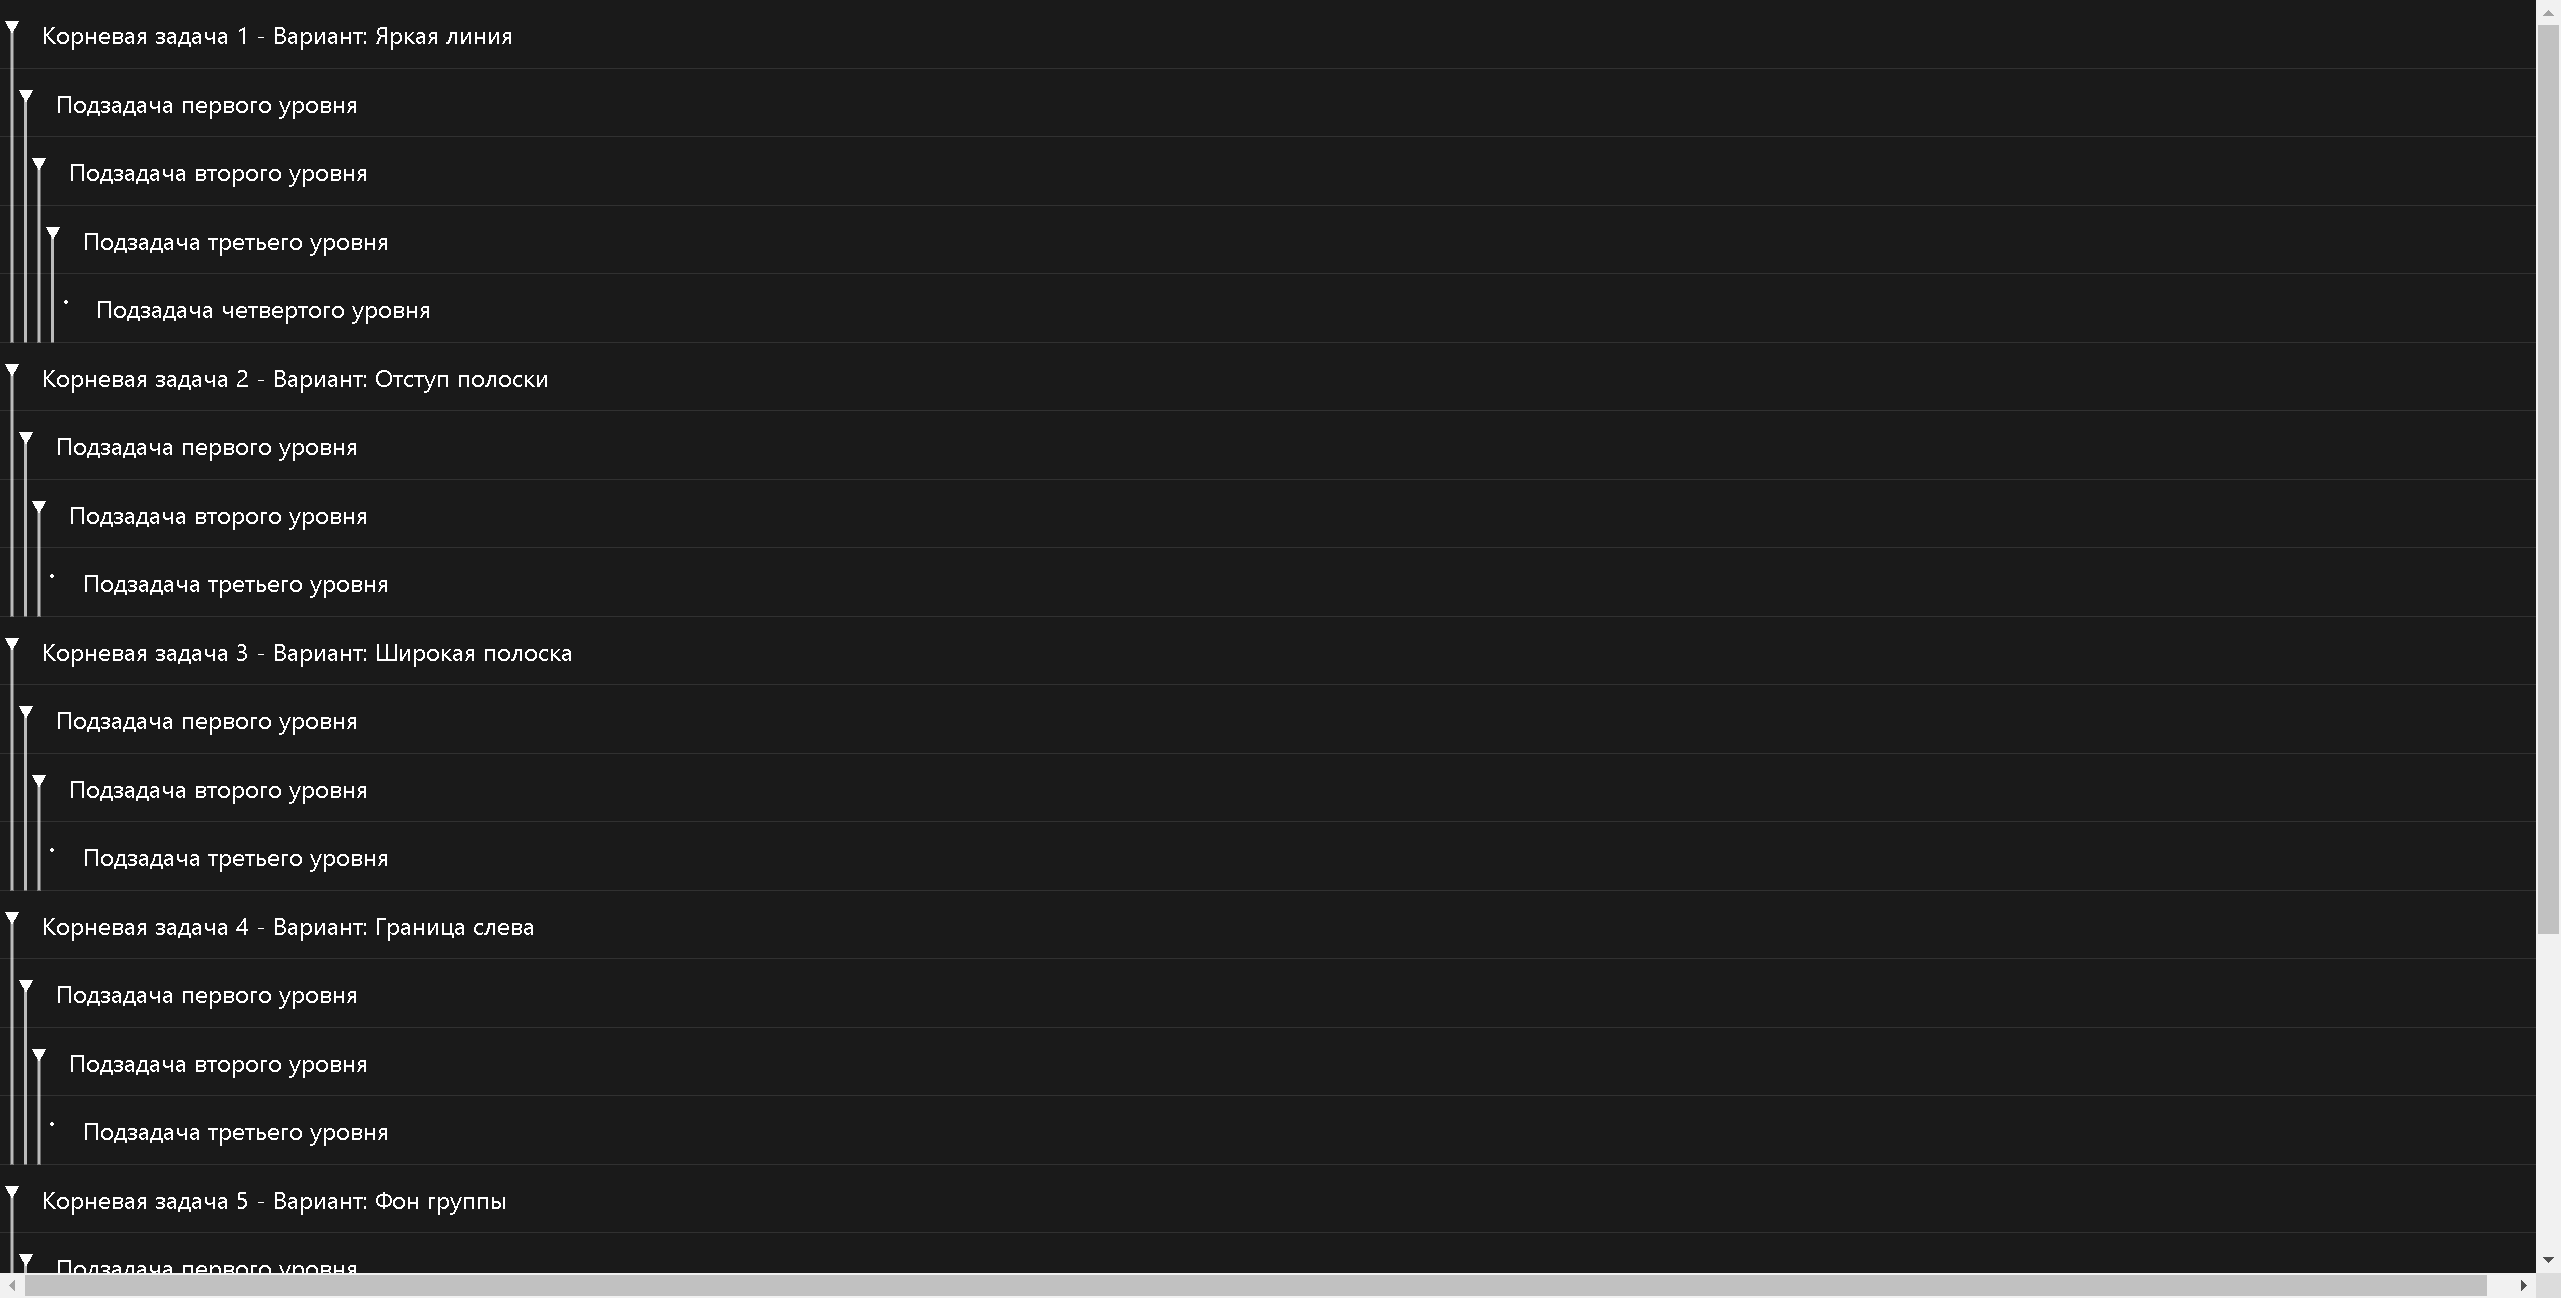
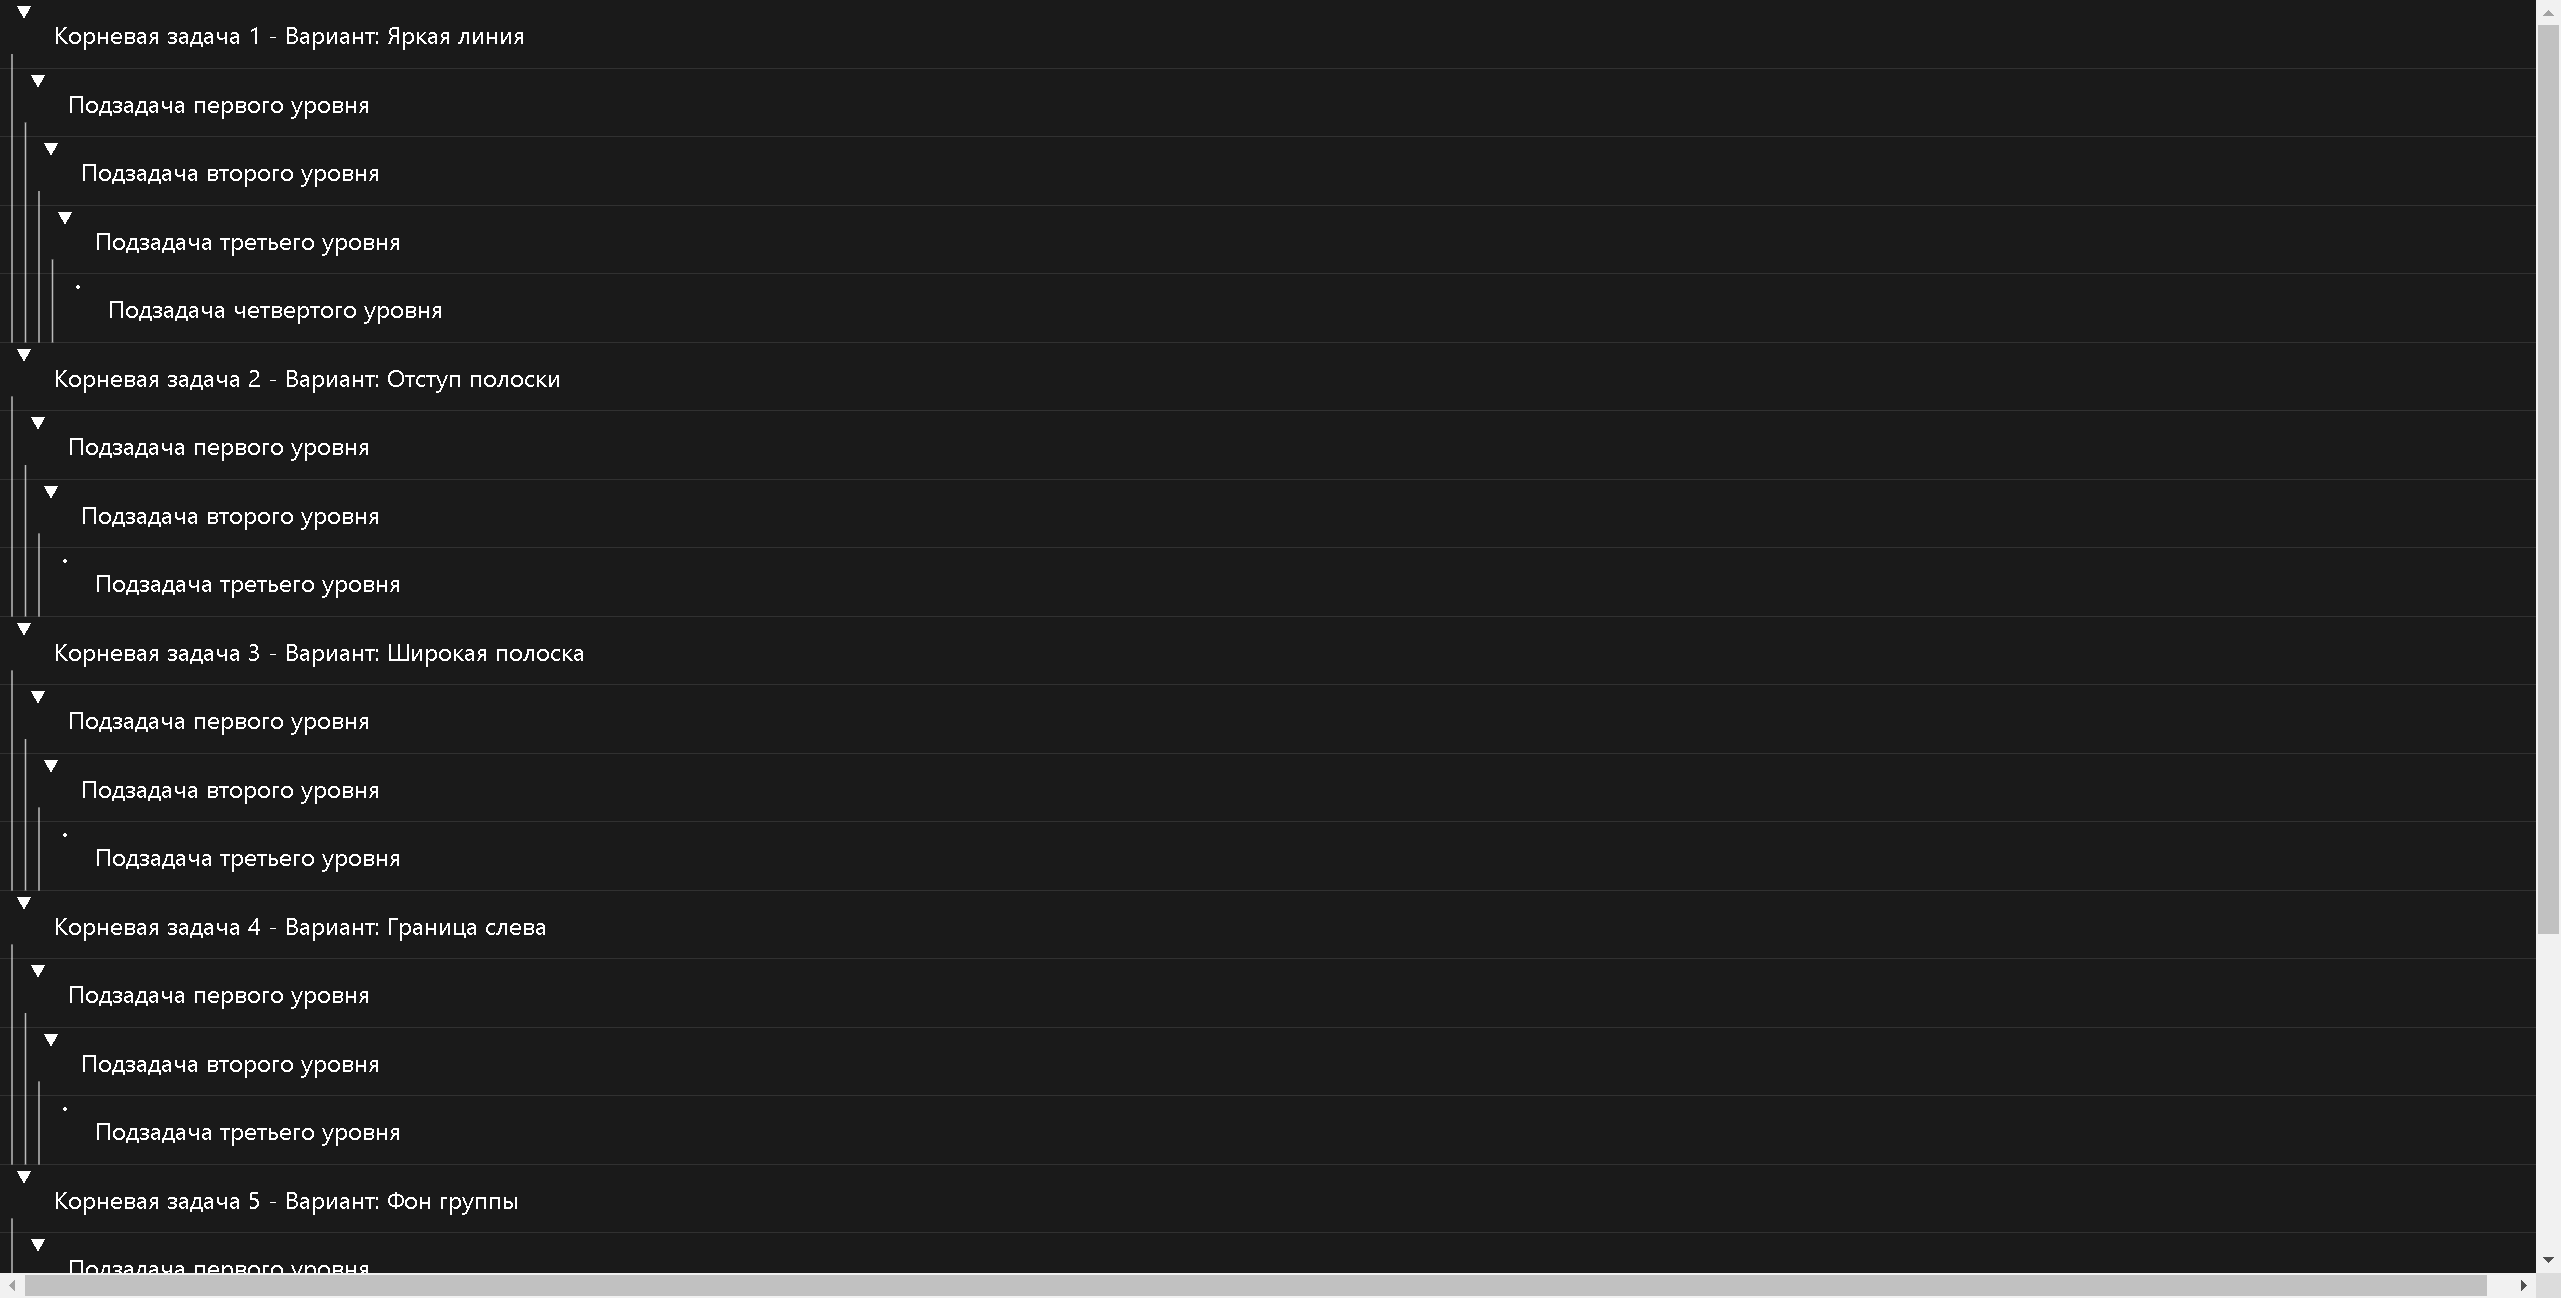
С вертикальными линиями.

diff --git a/todo.html b/todo.html
@@ -47,10 +47,9 @@
         width: 16px;
         height: 16px;
         display: flex;
-        align-items: flex-start;
+        align-items: center;
         justify-content: center;
         cursor: pointer;
-        padding-top: 12px;
         color: inherit;
         user-select: none;
       }
@@ -87,7 +86,7 @@
       }
       .hierarchy-svg-line {
         stroke: rgba(255, 255, 255, 0.7) !important;
-        stroke-width: 2 !important;
+        stroke-width: 1 !important;
         fill: none;
       }
       .hierarchy-svg-dot {
@@ -423,7 +422,7 @@
         expanderEl.dataset.taskId = task.id;
         const level = calculateLevel(task, todos);
         expanderEl.dataset.level = level;
-        expanderEl.style.marginLeft = `${level * 9}px`;
+        expanderEl.style.marginLeft = `${8 + level * 9}px`;
         
         const iconEl = document.createElement('div');
         iconEl.className = 'task-expander-icon';
@@ -431,10 +430,13 @@
         const hasChildrenTasks = hasChildren(task, todos);
         if (!hasChildrenTasks) {
           iconEl.textContent = '•';
+          iconEl.style.fontSize = '10px';
         } else if (task.collapsed) {
           iconEl.textContent = '▶';
+          iconEl.style.fontSize = '12px';
         } else {
           iconEl.textContent = '▼';
+          iconEl.style.fontSize = '12px';
         }
         
         expanderEl.appendChild(iconEl);
@@ -579,8 +581,12 @@
           const parentExpanderRect = getExpanderRect(parentTask.id);
           if (!parentExpanderRect) return;
           
-          const lineX = parentExpanderRect.centerX;
-          const lineTop = parentExpanderRect.bottom;
+          const parentTaskRect = getTaskRect(parentTask.id);
+          if (!parentTaskRect) return;
+          
+          const lineX = parentExpanderRect.left;
+          const lineHeight = 20;
+          const lineTop = parentExpanderRect.bottom + lineHeight;
           
           const lastVisibleDescendant = getLastVisibleDescendant(parentTask, todos);
           const lastDescendantRect = getTaskRect(lastVisibleDescendant.id);
@@ -596,7 +602,7 @@
             verticalLine.setAttribute('y2', lineBottom.toString());
             verticalLine.setAttribute('class', 'hierarchy-svg-line');
             verticalLine.setAttribute('stroke', 'rgba(255, 255, 255, 0.9)');
-            verticalLine.setAttribute('stroke-width', '2');
+            verticalLine.setAttribute('stroke-width', '1');
             svg.appendChild(verticalLine);
             verticalLinesCount++;
             console.log(`[drawHierarchyLines] Added vertical line for task ${parentTask.id}: x=${lineX}, top=${lineTop}, bottom=${lineBottom}`);
@@ -708,16 +714,19 @@
           } else {
             const taskLevel = calculateLevel(task, todos);
             expanderEl.dataset.level = taskLevel;
-            expanderEl.style.marginLeft = `${taskLevel * 9}px`;
+            expanderEl.style.marginLeft = `${8 + taskLevel * 9}px`;
             const iconEl = expanderEl.querySelector('.task-expander-icon');
             if (iconEl) {
               const hasChildrenTasks = hasChildren(task, todos);
               if (!hasChildrenTasks) {
                 iconEl.textContent = '•';
+                iconEl.style.fontSize = '10px';
               } else if (task.collapsed) {
                 iconEl.textContent = '▶';
+                iconEl.style.fontSize = '12px';
               } else {
                 iconEl.textContent = '▼';
+                iconEl.style.fontSize = '12px';
               }
             }
           }
